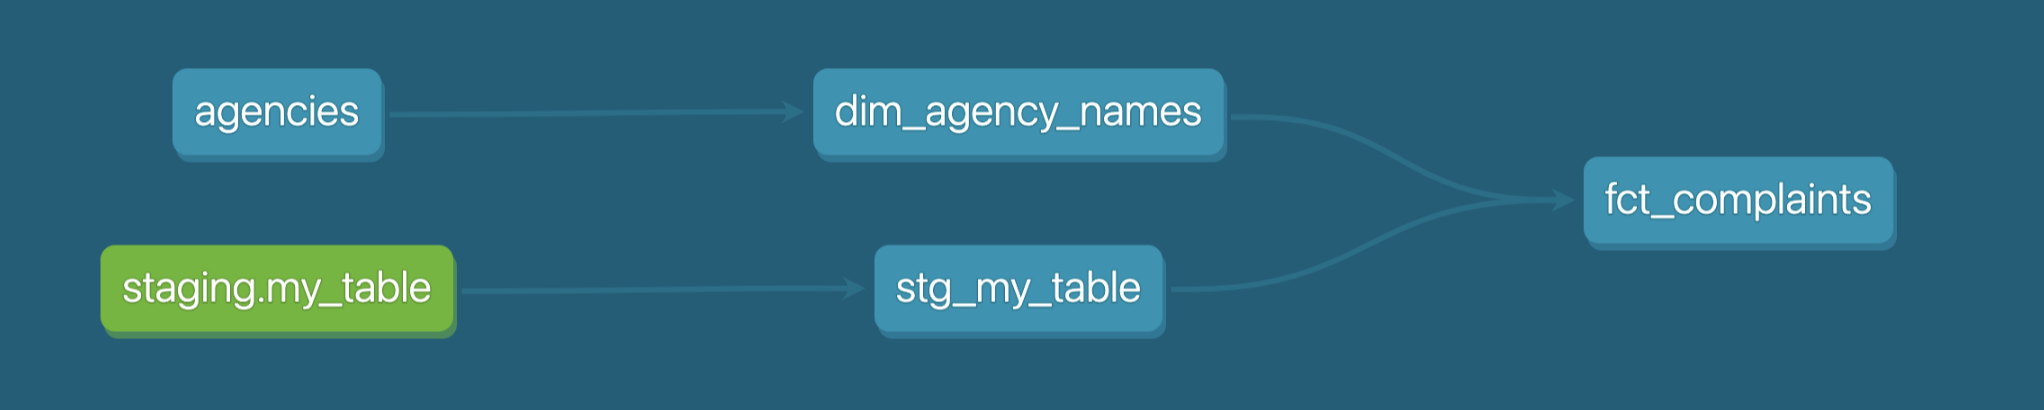
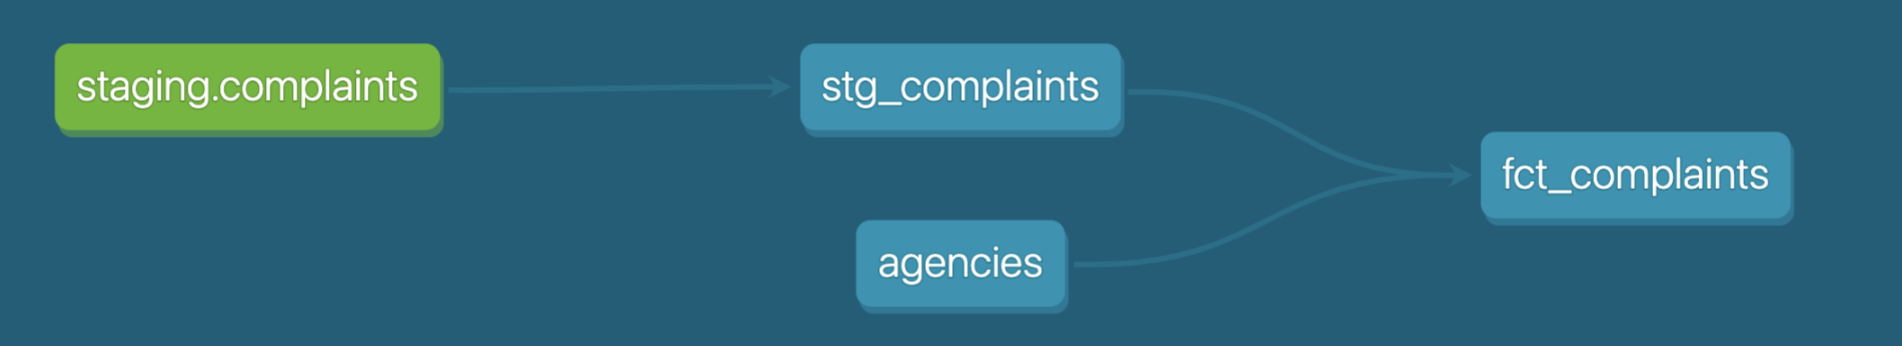
clean up dbt portion

diff --git a/README.md b/README.md
@@ -96,10 +96,10 @@ The lineage graph for the final Complaints Fact Table looks like this:
 `agencies` is a table that was created from a seed csv which contained abbreviations and full names of all the agencies that deal with 311 Service Requests.
 </br>
 </br>
-The `staging.my_table` table is poorly named and I was aprehensive of changing this name as I had already loaded up a few gigabytes of data into it after realizing the poor naming. The name should have been `complaints` as this is effectively what this table represents. `stg_my_table` cleaned up and standardized the data from the `staging.my_table` table and applied a filter to it that removed around 2M records that were made for complaints outside of NYC Zip Codes.
+The `staging.complaints` table is where we've loaded up all the source data from the Socrata api. `stg_complaints` is a view that cleans up and standardizes the data from the `staging.complaints` table. It also applies a filter that removes around 2M records made for complaints outside of NYC Zip Codes.
 </br>
 </br>
-`stg_my_table` and `dim_agency_names` have been joined so as to provide the full agency name in the final `fct_complaints` table that feeds our dashboard.
+The `stg_complaints` view and `agencies` table have been joined so as to provide the full agency name in the final `fct_complaints` table that feeds our dashboard.
 </br>
 </br>
 The `fct_complaints` table which feeds our dashboard, has been partitioned by month (as partitioning daily would have exceeded the max 4000 partition limit of BigQuery). It has also been clustered by `complaint_type` and `agency_name` columns.

diff --git a/prerequisites.md b/prerequisites.md
@@ -100,6 +100,7 @@ Creation steps for a [remote github repository here](https://docs.github.com/en/
 
    </br>
 
+1. In the `dbt/nyc_stats/models`, make sure that the `schema.yml` file matches up with your BigQuery setup. Also in `stg_complaints.sql`, make sure that the `source` reference matches up the name of your BigQuery table. Also check that all the references to db and tables in the `core` folder are ok.
 1. Push the code to your own remote repository. This will automatically (with the help of Github Actions), create a Docker image and push it to Artifact Registry, so that your flows can use that infrastructure when running. It will also create a CloudRunJob block in Prefect Cloud. </br>
 
    ```
